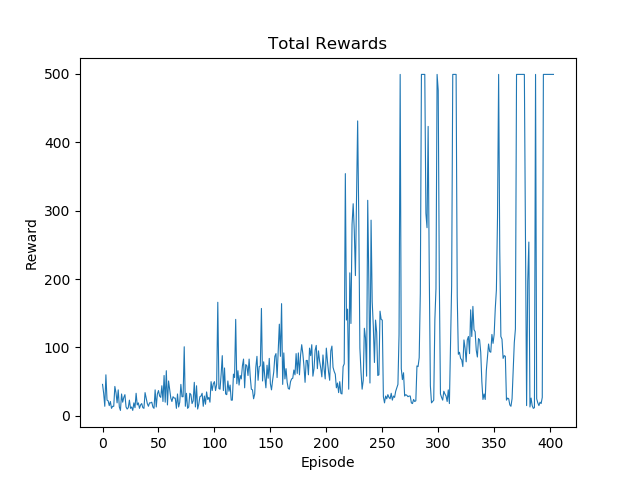
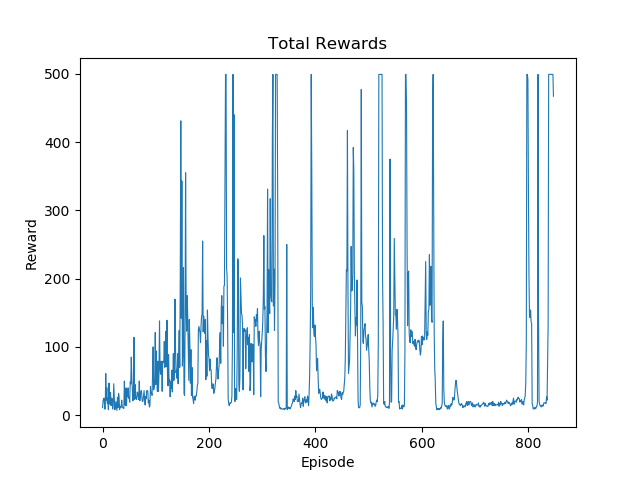
Tuned models

diff --git a/CartPole/CE/agent.py b/CartPole/CE/agent.py
@@ -69,9 +69,13 @@ class Agent:
                 next_state, reward, done, _ = self.env.step(action)
                 episodes[episode].append((state, action))
                 state = next_state
+                
+                if done and reward != 500.0: reward = -100.0 
+                
                 total_reward += reward
 
                 if done:
+                    total_reward += 100.0
                     rewards[episode] = total_reward
                     break
 
@@ -133,11 +137,10 @@ class Agent:
         return total_rewards
 
    
-    def test(self, num_episodes, render):
+    def play(self, num_episodes):
         """
         Tests the trained agent for a given number of episodes.
             num_episodes    = Number of episodes to test
-            render          = Flag whether training is displayed or not
         """
 
         self.model.load(self.path_model)
@@ -147,9 +150,7 @@ class Agent:
             total_reward = 0.0
 
             while True:
-                if render:
-                    self.env.render()
-
+                self.env.render()
                 action = self.get_action(state)
                 state, reward, done, _ = self.env.step(action)
                 total_reward += reward
@@ -173,10 +174,10 @@ if __name__ == "__main__":
     PERCENTILE = 0.75
     LEARNING_RATE = 1e-3
 
-    PLAY = False
+    PLAY = True
     EPOCHS_TRAIN = 100
     EPISODES_TRAIN = 100
-    EPISODES_TEST = 10
+    EPISODES_PLAY = 5
 
     env = gym.make("CartPole-v1")
     agent = Agent(env, p=PERCENTILE, lr=LEARNING_RATE)
@@ -185,4 +186,4 @@ if __name__ == "__main__":
         total_rewards = agent.train(num_epochs=EPOCHS_TRAIN, num_episodes=EPISODES_TRAIN)
         agent.plot_rewards(total_rewards)
     else:
-        agent.test(num_episodes=EPISODES_TEST, render=True)
+        agent.play(num_episodes=EPISODES_PLAY)

diff --git a/CartPole/A2C/agent.py b/CartPole/A2C/agent.py
@@ -95,7 +95,7 @@ class Agent:
         return total_rewards
 
 
-    def test(self, num_episodes, render):
+    def play(self, num_episodes):
         self.model.load_actor(self.path_actor)
         
         for episode in range(num_episodes):
@@ -103,8 +103,7 @@ class Agent:
             state = state.reshape(1, self.num_states)
 
             while True:
-                if render: self.env.render()
-                
+                self.env.redner()
                 action = self.get_action(state)
                 state, reward, done, _ = self.env.step(action)
                 state = state.reshape(1, self.num_states)
@@ -125,13 +124,13 @@ class Agent:
 if __name__ == "__main__":
 
     # Hyperparameters
-    GAMMA = 0.99
+    GAMMA = 0.98
     LR_ACTOR = 1e-3
     LR_CRITIC = 5e-3
 
-    PLAY = True
+    PLAY = False
     EPISODES_TRAIN = 10000
-    EPISODES_TEST = 10
+    EPISODES_PLAY = 5
 
     env = gym.make("CartPole-v1")
     agent = Agent(env, gamma = GAMMA, lr_actor=LR_ACTOR, lr_critic=LR_CRITIC)
@@ -140,4 +139,4 @@ if __name__ == "__main__":
         total_rewards = agent.train(num_episodes=EPISODES_TRAIN)
         agent.plot_rewards(total_rewards)
     else:
-        agent.test(num_episodes=EPISODES_TEST, render=True)
+        agent.play(num_episodes=EPISODES_PLAY)

diff --git a/CartPole/TabularQ/agent.py b/CartPole/TabularQ/agent.py
@@ -147,14 +147,14 @@ class Agent:
 if __name__ == "__main__":
 
     # Hyperparameters
-    GAMMA = 0.9
+    GAMMA = 0.98
     ALPHA = 0.2
     EPSILON = 0.1
     EPSILON_MIN = 0.01
     EPSILON_DECAY = 0.99
 
     PLAY = False
-    EPISODES_TRAIN = 1000000
+    EPISODES_TRAIN = 100000
     EPISODES_PLAY = 5
     
     env = gym.make("CartPole-v1")
